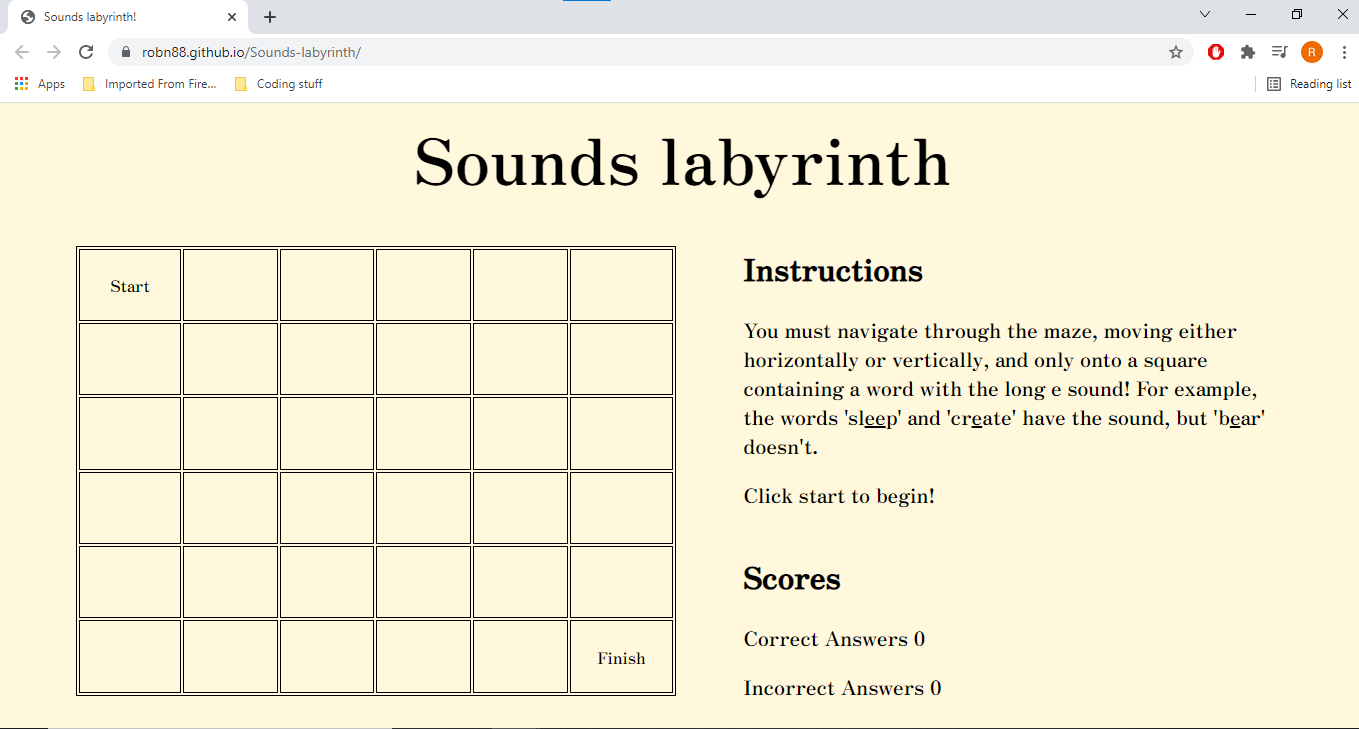
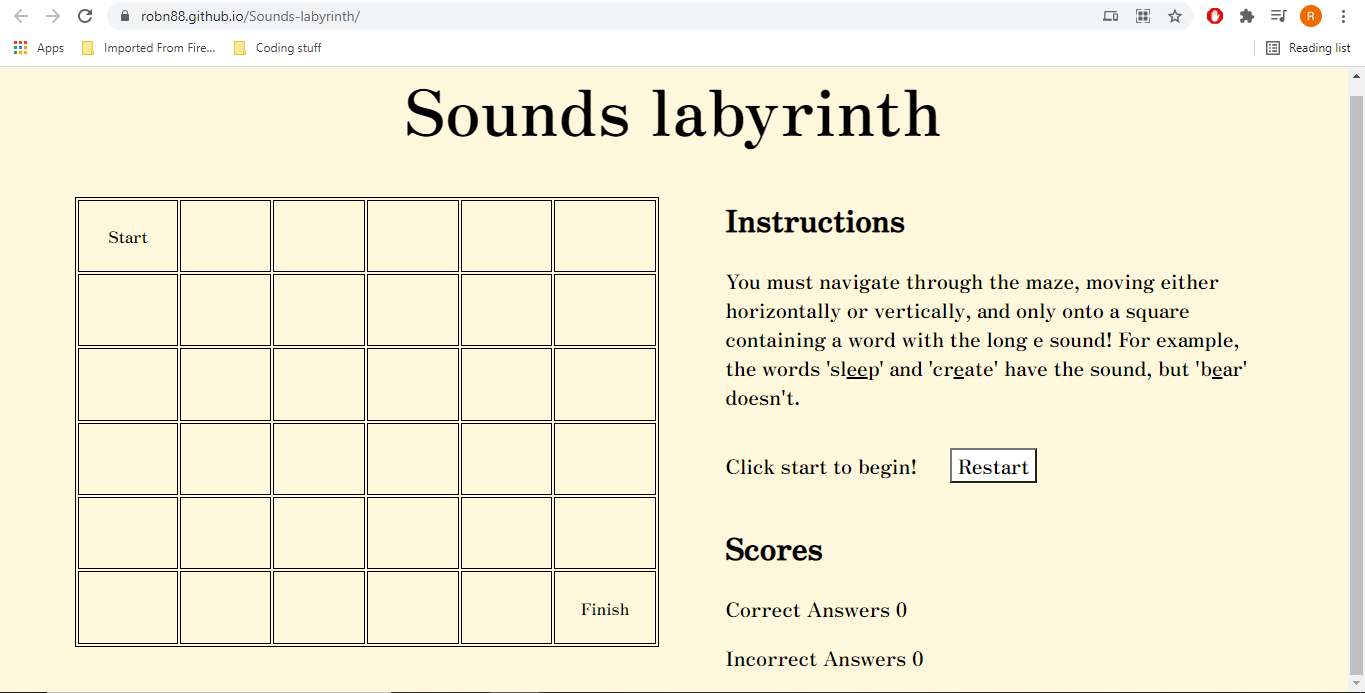
Update README.TESTING.md with new photos

diff --git a/index.html b/index.html
@@ -19,6 +19,7 @@
             containing a word with the long e sound! For example, the words 'sl<u>ee</u>p' and 'cr<u>e</u>ate' have the
             sound, but 'b<u>e</u>ar' doesn't. </p>
         <p id="start-game">Click start to begin!</p>
+        <!--game restart button-->
         <button type="button" id="restart">Restart</button>
     </section>
     <!--score counter, adapted from Love Maths project, link in credit section in README-->

diff --git a/assets/css/style.css b/assets/css/style.css
@@ -64,7 +64,7 @@ td {
 }
 
 #restart {
-  font-family: "Zen Antique Soft";
+  font-family: "Zen Antique Soft", sans-serif;
   font-size: 1em;
   margin-left: 2vw;
   background-color: white;

diff --git a/README.md b/README.md
@@ -35,6 +35,11 @@ __Score area__
 
   ![image of the score area from the website](documentation/readme/score_area.png)
 
+  __Restart button__
+  * A button that when pressed, reloads the page.
+
+  ![image of the restart button from the website](documentation/readme/restart_button.png)
+
 __Table containing cells to be filled with words by Javascript__
   * A 6x6 table, with only 2 cells filled at the beginning indicating the start and the finish point. To begin with, no 'game' cells are visible; the first two will be revealed upon clicking 'Start'. Through javascript,when clicked, the cells will either be coloured red if an answer is incorrect, or green if correct. A correct answer has the additional effect of revealing more cells.
 
